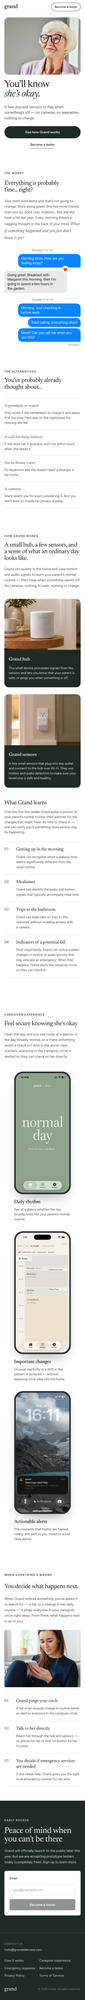
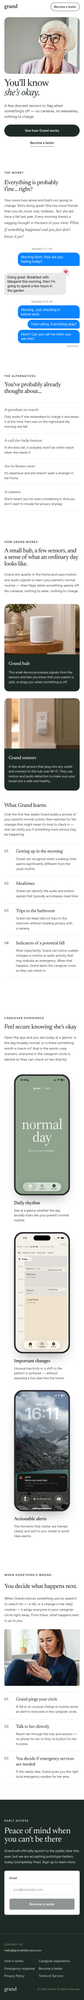
Match iMessage Tapback artwork and increase section spacing

diff --git a/homepage.css b/homepage.css
@@ -4,7 +4,7 @@
   --rule:#e4e5e1;--field:#d4d5d0;--green:#1e2a24;--green-dark:#141d18;
   --band:var(--green);--band-text:#b9c2bc;--band-soft:#e3efe7;
   --serif:"Newsreader",Georgia,serif;--sans:"Figtree",system-ui,sans-serif;
-  --max:1200px;--gutter:28px;--section-pad:160px;
+  --max:1200px;--gutter:28px;--section-pad:176px;
   /* Inset for desktop copy within the hero photo. */
   --edge:clamp(20px,5vw,72px);
 }
@@ -150,8 +150,9 @@ input::placeholder{color:var(--muted-2)}
 .bubble{position:relative;max-width:82%;padding:10px 14px;border-radius:20px;font-size:17px;line-height:1.3;letter-spacing:-.01em;text-wrap:pretty}
 .bubble+.bubble{margin-top:6px}
 .bubble.me{align-self:flex-end;background:#0a84ff;color:#fff;border-bottom-right-radius:6px}
-.bubble.them{align-self:flex-start;background:#e9e9eb;color:#141311;border-bottom-left-radius:6px;margin-top:14px}
-.tapback{position:absolute;top:-22px;right:-10px;width:36px;height:36px;border-radius:50%;background:#fff;box-shadow:0 1px 3px rgba(0,0,0,.18);display:flex;align-items:center;justify-content:center;font-size:15px}
+.bubble.them{align-self:flex-start;background:#e9e9eb;color:#141311;border-bottom-left-radius:6px;margin-top:32px}
+.tapback{position:absolute;top:-24px;right:-22px;width:42px;height:44.4px;pointer-events:none}
+.tapback svg{display:block;width:100%;height:100%}
 .thread-status{margin:5px 6px 0 0;align-self:flex-end;font-size:12px;color:#8a8a8e}
 /* Reserve the conversation's height while Tuesday's messages arrive once. */
 @media(prefers-reduced-motion:no-preference){
@@ -162,7 +163,7 @@ input::placeholder{color:var(--muted-2)}
 @media(max-width:1000px){.worry .grid-2{gap:48px}}
 
 /* Alternatives: open layout with content on the shared column. */
-#alternatives .wrap{padding-top:64px;padding-bottom:64px}
+#alternatives .wrap{padding-top:72px;padding-bottom:72px}
 #alternatives .grid-2{align-items:start}
 @media(min-width:801px){#alternatives .grid-2{grid-template-columns:minmax(0,1fr) minmax(0,2fr)}}
 #alternatives .rows{margin-top:8px}
@@ -226,7 +227,7 @@ input::placeholder{color:var(--muted-2)}
  .porthole-hub img{width:400%;transform:translate(-34.7%,-40.5%)}
  .porthole-sensor img{width:750%;transform:translate(-83.7%,-39.5%)}
 }
-@media(max-width:700px){#alternatives .wrap{padding-top:40px;padding-bottom:40px}}
+@media(max-width:700px){#alternatives .wrap{padding-top:48px;padding-bottom:48px}}
 
 /* phone bezel */
 .phone{width:100%;max-width:260px;aspect-ratio:9/19.5;background:#2b2b2e;border-radius:15.5%/7.2%;padding:2.6%;position:relative;
@@ -342,8 +343,8 @@ a:focus-visible,button:focus-visible,input:focus-visible{outline:3px solid #b68b
 /* ---- Mobile (≤700px) — from "Grand A - Mobile" design, Sept 2026 ---- */
 @media(max-width:700px){
  /* Header, hero and sections share the mobile gutter. */
- :root{--gutter:20px;--section-pad:80px;--edge:20px}
- .section .wrap{padding-bottom:64px}
+ :root{--gutter:20px;--section-pad:88px;--edge:20px}
+ .section .wrap{padding-bottom:72px}
  .display{font-size:44px;line-height:1}
  .h2{font-size:34px}.h2-sm{font-size:30px}.h3{font-size:28px}.h4{font-size:24px}
  .lede{font-size:17px;max-width:none}.body-lg{font-size:16px}.body{font-size:15px;line-height:1.55}
@@ -375,7 +376,7 @@ a:focus-visible,button:focus-visible,input:focus-visible{outline:3px solid #b68b
  .hero-actions .btn{width:100%;text-align:center}
  .hero-actions .link-ul{padding:4px 0;font-size:15px}
  /* worry: copy above the phone */
- .worry .wrap{padding-top:56px}
+ .worry .wrap{padding-top:64px}
  .worry .grid-2{gap:32px;grid-template-columns:1fr}
  .phone-col{order:2;justify-content:center}
  .worry .stack{max-width:none}

diff --git a/index.html b/index.html
@@ -149,7 +149,10 @@
         <div class="thread" role="img" aria-label="A text conversation with Mom: a cheerful reply on Monday, then three messages on Tuesday morning delivered but not answered.">
           <p class="thread-day">Monday <span>8:12 AM</span></p>
           <div class="bubble me">Morning Mom. How are you feeling today?</div>
-          <div class="bubble them"><span class="tapback" aria-hidden="true">&#10084;&#65039;</span>Doing great. Breakfast with Margaret this morning, then I&rsquo;m going to spend a few hours in the garden.</div>
+          <div class="bubble them"><span class="tapback" aria-hidden="true"><svg viewBox="0 0 70 74" focusable="false">
+            <defs><clipPath id="tapback-artwork"><circle cx="31" cy="31" r="30.5"/><circle cx="49" cy="53" r="9"/><circle cx="61" cy="66" r="5.5"/></clipPath></defs>
+            <image href="assets/imessage-screen.png" x="-434" y="-441" width="615" height="1354" clip-path="url(#tapback-artwork)"/>
+          </svg></span>Doing great. Breakfast with Margaret this morning, then I&rsquo;m going to spend a few hours in the garden.</div>
           <p data-thread-reveal class="thread-day">Tuesday <span>8:04 AM</span></p>
           <div data-thread-reveal class="bubble me">Morning. Just checking in before work.</div>
           <div data-thread-reveal class="bubble me">Tried calling. Everything okay?</div>

diff --git a/README.md b/README.md
@@ -4,6 +4,12 @@ Static landing-page wireframe for Grand.
 
 ## Status
 
+- Slightly increased section spacing: standard desktop/tablet padding from 160px to 176px and mobile from 80px to 88px, with matching increases to the tighter alternatives and mobile section overrides. Hero centering is preserved.
+
+- Increased the gap above Mom’s reply so its Tapback clears the preceding message, while retaining the compact Tuesday message stack.
+
+- Reused the exact pink-heart Tapback artwork from the original `assets/imessage-screen.png` in the worry thread, using an SVG clipping window to retain its native heart, shading, reaction bubble, and trailing dots. Removed the substitute emoji and hand-drawn red heart.
+
 - Added tablet connector lines from the full house image into the hub/sensor caption band, ending below the devices. The tablet “What Grand learns” introduction now spans the full content width above the routine list.
 
 - Split the mobile “How Grand works” scene into two stacked versions of the original rounded photo-and-dark-caption layout: one zoomed house-image crop for the hub and one for the kitchen sensor. Desktop/tablet retain the full scene and existing captions.
